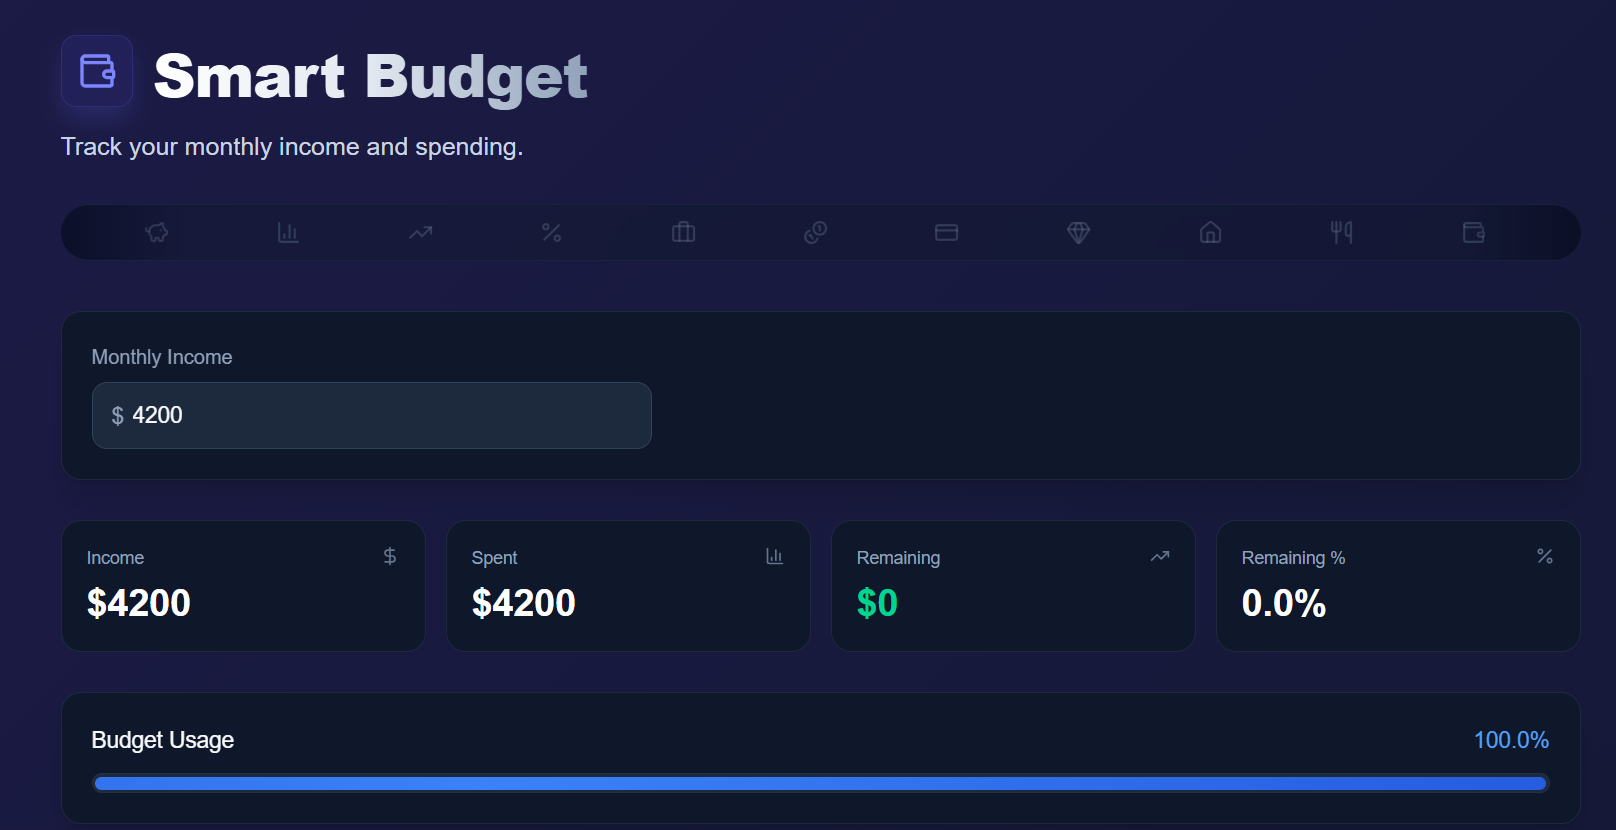
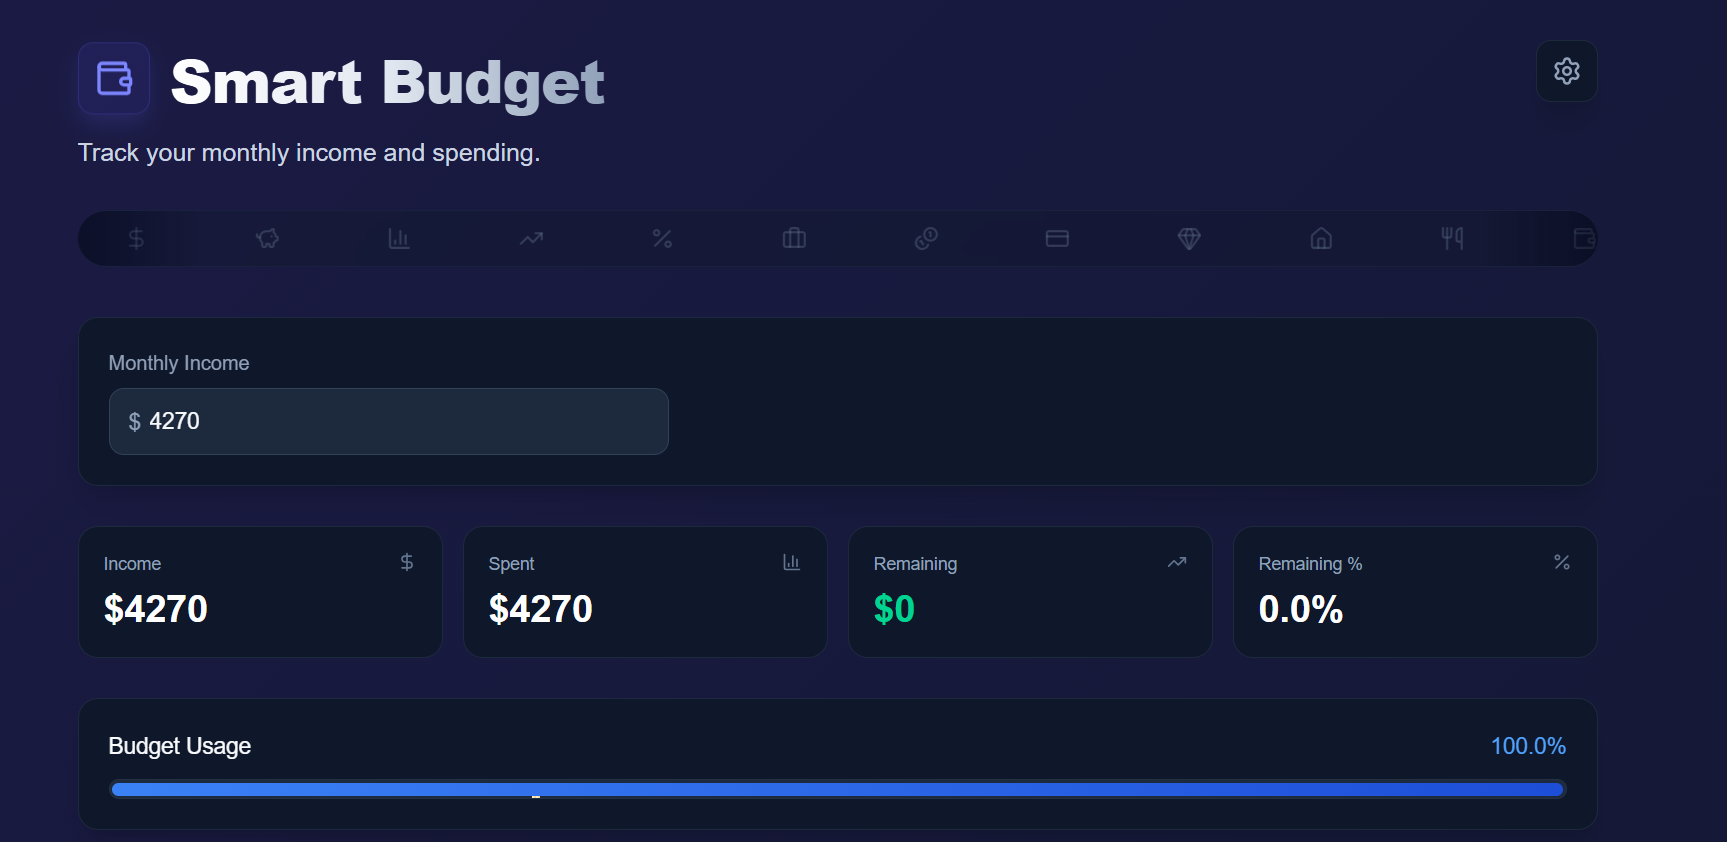
Resume update and small updates

diff --git a/app/projects/page.tsx b/app/projects/page.tsx
@@ -20,7 +20,7 @@ export default function ProjectsPage() {
     {
       title: 'Resume Assistant',
       thumbnail: '/images/resumeThumbnail.png',
-      description: 'Get instant AI feedback on your resume, along with a chatbot that can answer questions about it.',
+      description: 'Get instant AI feedback on your resume, match with online job posts, or create a brand new resume from scratch.',
       liveLink: 'https://resume-assistant-inky.vercel.app/',
       codeLink: 'https://github.com/ECampbell37/Resume_Assistant_Frontend',
     },
